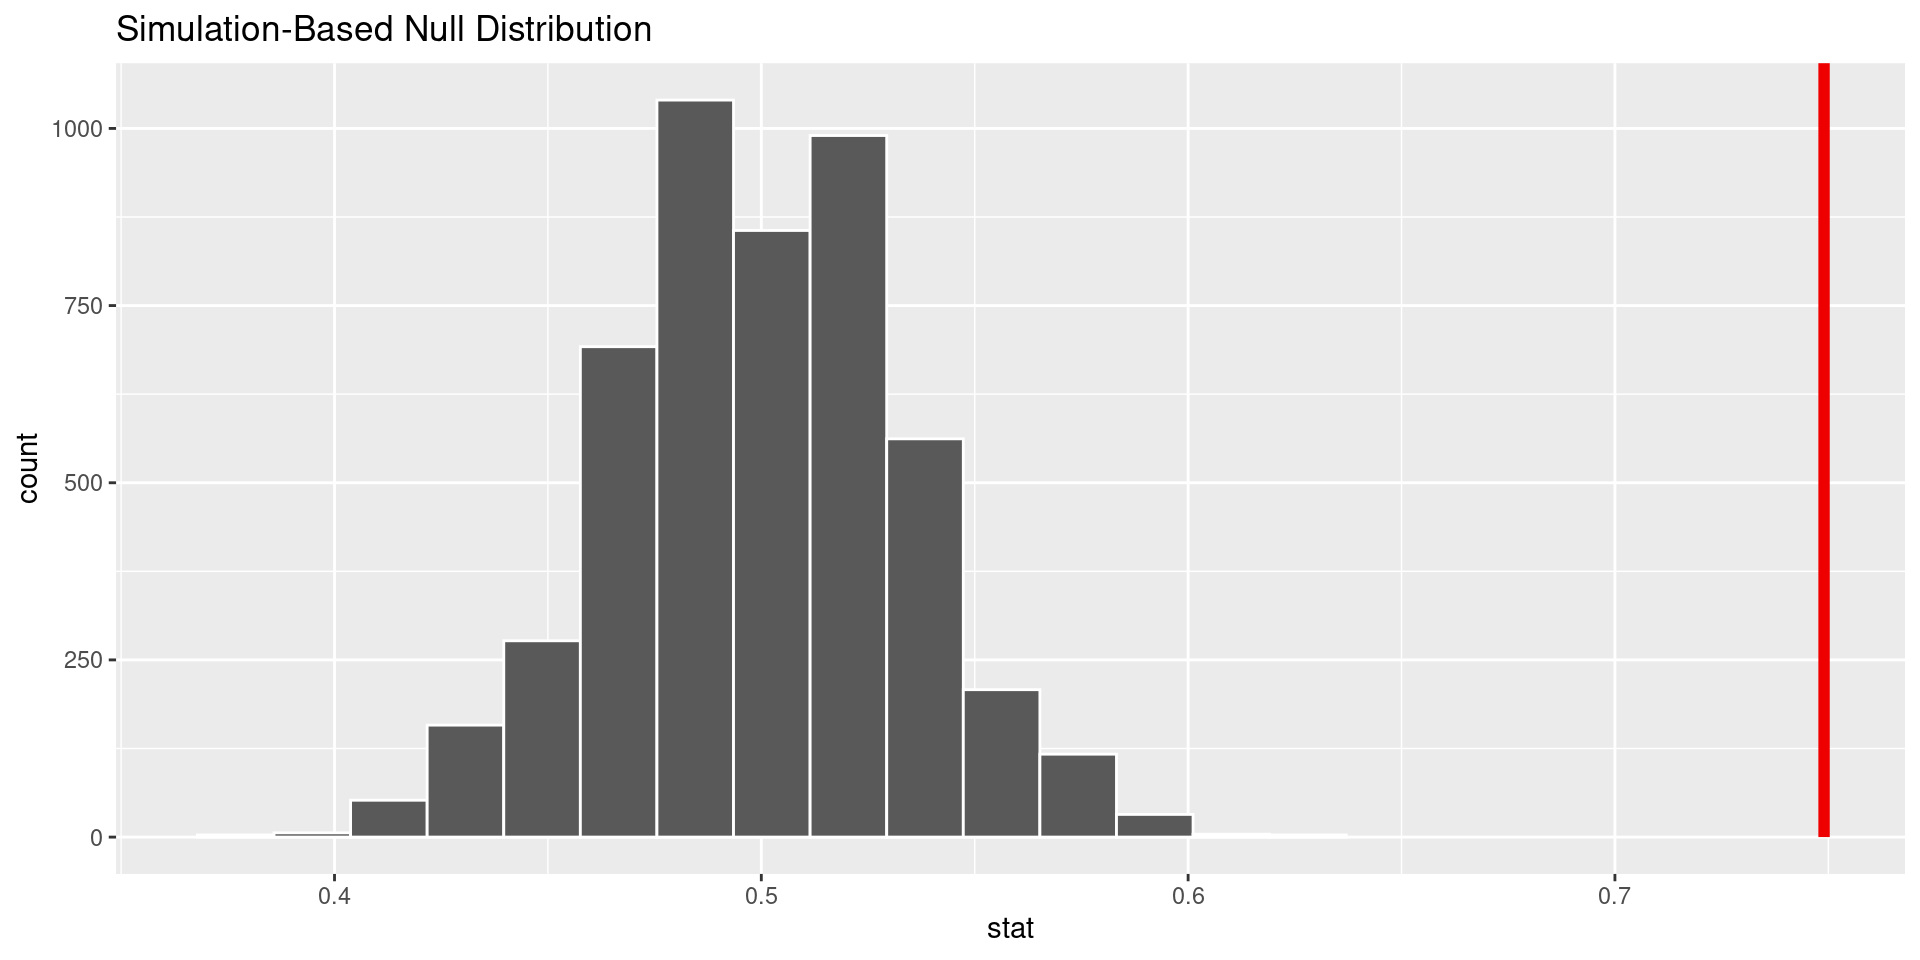
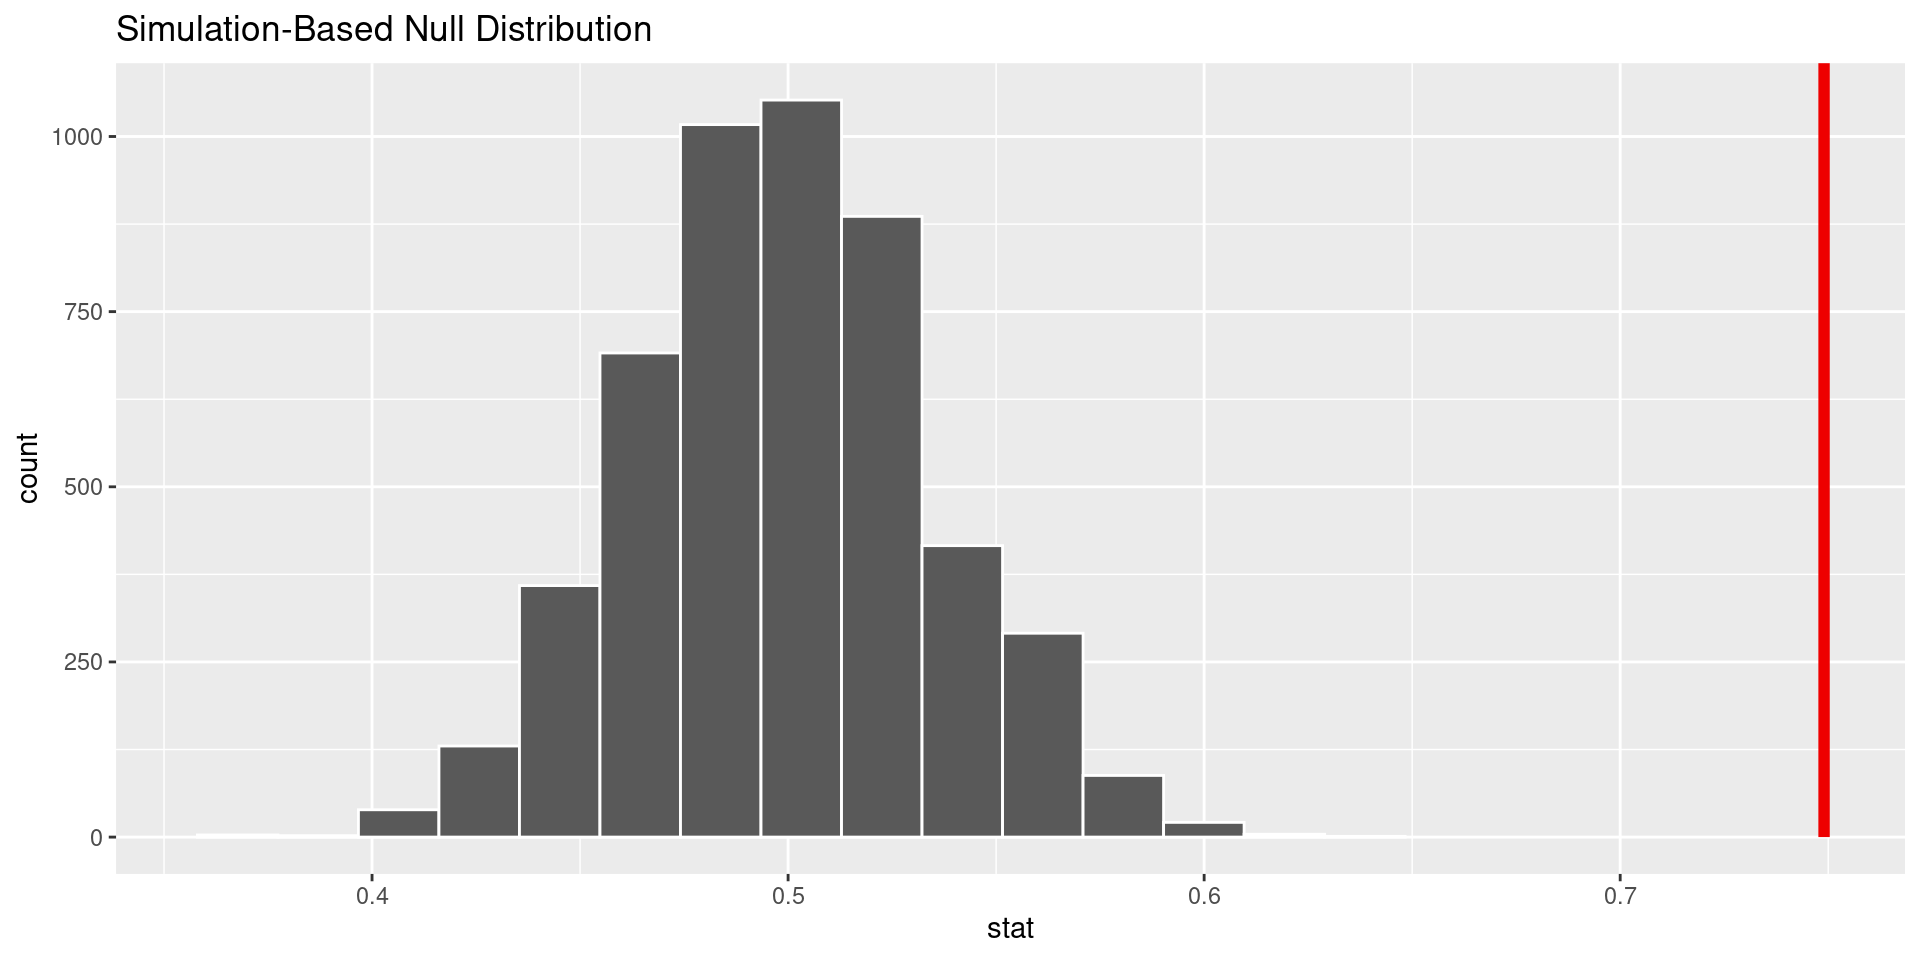
hypothesis testing edits

diff --git a/docs/lectures/12_hypothesis_test_prop.html b/docs/lectures/12_hypothesis_test_prop.html
@@ -402,10 +402,6 @@ Schwab
 </div>
 
 </section>
-<section class="slide level2">
-
-<p>I started falling asleep go back an rework this?</p>
-</section>
 <section id="example-ebola" class="slide level2">
 <h2>Example: Ebola</h2>
 <div>
@@ -465,7 +461,9 @@ Schwab
 </section>
 <section id="the-question." class="slide level2">
 <h2>The question.</h2>
-<p>&gt; If the sentiment from 2014 New Yorkers is unchanged today, what is the probability we would have gotten <span class="math inline">\(\hat{p} = 0.514\)</span> based on the 2014 sample?</p>
+<blockquote>
+<p>If the sentiment from 2014 New Yorkers is unchanged today, what is the probability we would have gotten <span class="math inline">\(\hat{p} = 0.514\)</span> based on the 2014 sample?</p>
+</blockquote>
 <div>
 <ul>
 <li class="fragment"><p>Is it likely or unlikely</p>
@@ -480,19 +478,19 @@ Schwab
 <h2>Notation</h2>
 <p>Hypothesis testing with Proportions</p>
 <p><span class="math display">\[
-H_o: p = 0.82 \\
-H_1: p \ne 0.82
+H_1: p = 0.82 \\
+H_A: p \ne 0.82
 \]</span></p>
 <p>Null and Alternative hypotheses.</p>
 <p>We assume the null hypothesis is true and build a theoretical sampling distribution from that.</p>
 </section>
 <section id="the-central-limit-theorem" class="slide level2">
 <h2>The Central Limit Theorem</h2>
-<p>This is how we build the sampling distribution.</p>
+<p>This is what allows us to build the sampling distribution.</p>
 <blockquote>
 <p>If we look at a proportion and the scenario satisfies certain conditions, then the distribution of sample proportions will appear to follow a bell-shaped curve called the <em>normal distribution</em>.</p>
 </blockquote>
-<p>This is the point of R Assignment 2. If we could sample repeatedly from a population, the shape of all those samples would be normal.</p>
+<p>This is the point of the recent R Assignment. If we could sample repeatedly from a population, the shape from the statistics in those samples would be normal.</p>
 </section>
 <section id="condition-on-h_0" class="slide level2">
 <h2>Condition on <span class="math inline">\(H_0\)</span></h2>
@@ -515,7 +513,7 @@ H_1: p \ne 0.82
 <h2>Conclusion</h2>
 <p>What is the probability of getting the <span class="math inline">\(\hat{p}\)</span> from our sample?</p>
 <div class="cell">
-<div class="sourceCode cell-code" id="cb3"><pre class="sourceCode numberSource r number-lines code-with-copy"><code class="sourceCode r"><span id="cb3-1"><a></a><span class="fu">pnorm</span>(<span class="at">q =</span> p<span class="sc">-</span>hat, <span class="at">mean =</span> p, <span class="at">sd =</span> SE, <span class="at">lower.tail =</span> )</span></code><button title="Copy to Clipboard" class="code-copy-button"><i class="bi"></i></button></pre></div>
+<div class="sourceCode cell-code" id="cb3"><pre class="sourceCode numberSource r number-lines code-with-copy"><code class="sourceCode r"><span id="cb3-1"><a></a><span class="fu">pnorm</span>(<span class="at">q =</span> p<span class="sc">-</span>hat, <span class="at">mean =</span> p, <span class="at">sd =</span> SE )</span></code><button title="Copy to Clipboard" class="code-copy-button"><i class="bi"></i></button></pre></div>
 </div>
 </section>
 <section id="practice-1.-exclusive-relationships" class="slide level2">
@@ -605,6 +603,16 @@ p \sim N(\mu = 0.5, SE = 0.035)
 </section>
 <section id="make-sample" class="slide level2">
 <h2>Make sample</h2>
+<div class="cell">
+<div class="sourceCode cell-code" id="cb8"><pre class="sourceCode numberSource r number-lines code-with-copy"><code class="sourceCode r"><span id="cb8-1"><a></a><span class="co"># This creates a vector of 152 "Trues" and 51 "Falses"</span></span>
+<span id="cb8-2"><a></a>more_than_1_relationship <span class="ot">&lt;-</span> <span class="fu">c</span>(</span>
+<span id="cb8-3"><a></a>  <span class="fu">rep</span>(<span class="cn">TRUE</span>, <span class="dv">152</span>),</span>
+<span id="cb8-4"><a></a>  <span class="fu">rep</span>(<span class="cn">FALSE</span>, <span class="dv">51</span>)</span>
+<span id="cb8-5"><a></a>) </span>
+<span id="cb8-6"><a></a></span>
+<span id="cb8-7"><a></a><span class="co">#This takes the vector and saves it as a data frame so we can us it. </span></span>
+<span id="cb8-8"><a></a>more_than_1_relationship <span class="ot">&lt;-</span> <span class="fu">as.data.frame</span>(more_than_1_relationship)</span></code><button title="Copy to Clipboard" class="code-copy-button"><i class="bi"></i></button></pre></div>
+</div>
 </section>
 <section id="hypothesis-notation-1" class="slide level2">
 <h2>Hypothesis notation</h2>
@@ -626,17 +634,49 @@ H_A: p &gt; 0.5
 </section>
 <section id="create-simulated-distribution" class="slide level2">
 <h2>Create simulated distribution</h2>
+<div class="cell">
+<div class="sourceCode cell-code" id="cb9"><pre class="sourceCode numberSource r number-lines code-with-copy"><code class="sourceCode r"><span id="cb9-1"><a></a><span class="fu">library</span>(infer)</span>
+<span id="cb9-2"><a></a></span>
+<span id="cb9-3"><a></a><span class="co"># Saving all the proportions we'll make</span></span>
+<span id="cb9-4"><a></a>null_distn_one_prop <span class="ot">&lt;-</span> more_than_1_relationship  <span class="sc">|&gt;</span></span>
+<span id="cb9-5"><a></a>  </span>
+<span id="cb9-6"><a></a>  <span class="co"># Here we tell specify what is a success</span></span>
+<span id="cb9-7"><a></a>  <span class="fu">specify</span>(<span class="at">response =</span> more_than_1_relationship, <span class="at">success =</span> <span class="st">"TRUE"</span>) <span class="sc">|&gt;</span></span>
+<span id="cb9-8"><a></a>  </span>
+<span id="cb9-9"><a></a>  <span class="co"># This is where we set the null hypothesis</span></span>
+<span id="cb9-10"><a></a>  <span class="fu">hypothesize</span>(<span class="at">null =</span> <span class="st">"point"</span>, <span class="at">p =</span> <span class="fl">0.5</span>) <span class="sc">|&gt;</span></span>
+<span id="cb9-11"><a></a>  </span>
+<span id="cb9-12"><a></a>  <span class="co"># Choosing 10000 replications</span></span>
+<span id="cb9-13"><a></a>  <span class="fu">generate</span>(<span class="at">reps =</span> <span class="dv">5000</span>, <span class="at">type =</span> <span class="st">"draw"</span>) <span class="sc">|&gt;</span></span>
+<span id="cb9-14"><a></a>  </span>
+<span id="cb9-15"><a></a>  <span class="co"># This is </span></span>
+<span id="cb9-16"><a></a>  <span class="fu">calculate</span>(<span class="at">stat =</span> <span class="st">"prop"</span>)</span></code><button title="Copy to Clipboard" class="code-copy-button"><i class="bi"></i></button></pre></div>
+</div>
 </section>
 <section id="examine-the-samples." class="slide level2">
 <h2>Examine the samples.</h2>
+<div class="cell">
+<div class="sourceCode cell-code" id="cb10"><pre class="sourceCode numberSource r number-lines code-with-copy"><code class="sourceCode r"><span id="cb10-1"><a></a><span class="co">#visualize is a graphing function, based on ggplot, for the infer package. </span></span>
+<span id="cb10-2"><a></a></span>
+<span id="cb10-3"><a></a><span class="fu">visualise</span>(<span class="at">data =</span> null_distn_one_prop)</span></code><button title="Copy to Clipboard" class="code-copy-button"><i class="bi"></i></button></pre></div>
 
+</div>
 <img data-src="12_hypothesis_test_prop_files/figure-revealjs/unnamed-chunk-8-1.png" width="960" class="r-stretch"></section>
 <section id="calculate-the-p-value-based-on-simulation" class="slide level2">
 <h2>Calculate the p-value based on simulation</h2>
 <p>Visualize the pvalue</p>
-
-<img data-src="12_hypothesis_test_prop_files/figure-revealjs/unnamed-chunk-9-1.png" width="960" class="r-stretch"><p>Calculate the p-value</p>
 <div class="cell">
+<div class="sourceCode cell-code" id="cb11"><pre class="sourceCode numberSource r number-lines code-with-copy"><code class="sourceCode r"><span id="cb11-1"><a></a><span class="fu">visualise</span>(<span class="at">data =</span> null_distn_one_prop) <span class="sc">+</span></span>
+<span id="cb11-2"><a></a>  <span class="fu">shade_p_value</span>(<span class="at">obs_stat =</span> <span class="fl">0.749</span>, <span class="at">direction =</span> <span class="st">"greater"</span>)</span></code><button title="Copy to Clipboard" class="code-copy-button"><i class="bi"></i></button></pre></div>
+
+</div>
+<img data-src="12_hypothesis_test_prop_files/figure-revealjs/unnamed-chunk-9-1.png" width="960" class="r-stretch"></section>
+<section id="calculate-the-p-value" class="slide level2">
+<h2>Calculate the p-value</h2>
+<div class="cell">
+<div class="sourceCode cell-code" id="cb12"><pre class="sourceCode numberSource r number-lines code-with-copy"><code class="sourceCode r"><span id="cb12-1"><a></a><span class="fu">get_p_value</span>(<span class="at">x =</span> null_distn_one_prop, </span>
+<span id="cb12-2"><a></a>            <span class="at">obs_stat =</span> <span class="fl">0.749</span>,</span>
+<span id="cb12-3"><a></a>            <span class="at">direction =</span> <span class="st">'greater'</span>)</span></code><button title="Copy to Clipboard" class="code-copy-button"><i class="bi"></i></button></pre></div>
 <div class="cell-output cell-output-stdout">
 <pre><code># A tibble: 1 × 1
   p_value

diff --git a/docs/lectures/13_parametric_boot.html b/docs/lectures/13_parametric_boot.html
@@ -424,7 +424,6 @@ Schwab
 <ol type="1">
 <li class="fragment"><p>The Parametric Bootstrap simulation assumes the null hypothesis is true then uses the data to construct a bootstrap distribution.</p></li>
 <li class="fragment"><p>Today this means for each value in our sample R will choose a success or failure with probability <code>p</code> for each value of <code>n</code>.</p></li>
-<li class="fragment"><p>We will do this with marbles</p></li>
 </ol>
 </div>
 </section>
@@ -454,7 +453,7 @@ H_a: p \ne 0.40
 <span id="cb3-5"><a></a><span class="co"># This saves the sample as a dataframe</span></span>
 <span id="cb3-6"><a></a>clinic_sample <span class="ot">&lt;-</span> <span class="fu">as.data.frame</span>(clinic_sample)</span>
 <span id="cb3-7"><a></a></span>
-<span id="cb3-8"><a></a><span class="co"># This changed the name of the variable to "has_disease"</span></span>
+<span id="cb3-8"><a></a><span class="co"># This changes the name of the variable to "has_disease"</span></span>
 <span id="cb3-9"><a></a><span class="fu">names</span>(clinic_sample) <span class="ot">&lt;-</span><span class="st">"has_disease"</span></span>
 <span id="cb3-10"><a></a></span>
 <span id="cb3-11"><a></a><span class="fu">head</span>(clinic_sample)</span></code><button title="Copy to Clipboard" class="code-copy-button"><i class="bi"></i></button></pre></div>
@@ -491,8 +490,8 @@ H_a: p \ne 0.40
 </div>
 </div>
 </section>
-<section id="create-bootstrap-distribution-w-infer" class="slide level2">
-<h2>Create bootstrap distribution w/ infer()</h2>
+<section id="create-one-sample-from-a-bootstrap-distribution" class="slide level2">
+<h2>Create one sample from a bootstrap distribution</h2>
 <div class="cell">
 <div class="sourceCode cell-code" id="cb7"><pre class="sourceCode numberSource r number-lines code-with-copy"><code class="sourceCode r"><span id="cb7-1"><a></a><span class="co"># setting a seed</span></span>
 <span id="cb7-2"><a></a><span class="fu">set.seed</span>(<span class="dv">2024</span>)</span>
@@ -541,12 +540,12 @@ Null Hypothesis: point
 <span id="cb9-13"><a></a>  <span class="co"># Choosing 10000 replications</span></span>
 <span id="cb9-14"><a></a>  <span class="fu">generate</span>(<span class="at">reps =</span> <span class="dv">10000</span>, <span class="at">type =</span> <span class="st">"draw"</span>) <span class="sc">|&gt;</span></span>
 <span id="cb9-15"><a></a>  </span>
-<span id="cb9-16"><a></a>  <span class="co"># This is </span></span>
+<span id="cb9-16"><a></a>  <span class="co"># This is calculating a proportion for each sample</span></span>
 <span id="cb9-17"><a></a>  <span class="fu">calculate</span>(<span class="at">stat =</span> <span class="st">"prop"</span>)</span></code><button title="Copy to Clipboard" class="code-copy-button"><i class="bi"></i></button></pre></div>
 </div>
 </section>
-<section id="visualize-the-bootstrap-distribution." class="slide level2">
-<h2><code>visualize()</code> the bootstrap distribution.</h2>
+<section id="visualize-the-bootstrap-distribution" class="slide level2">
+<h2><code>visualize()</code> the bootstrap distribution</h2>
 <div class="cell">
 <div class="sourceCode cell-code" id="cb10"><pre class="sourceCode numberSource r number-lines code-with-copy"><code class="sourceCode r"><span id="cb10-1"><a></a><span class="co"># cheater function to graph, works like ggplot(), but we don't need aes()</span></span>
 <span id="cb10-2"><a></a><span class="fu">visualize</span>(<span class="at">data =</span> null_distn_one_prop)</span></code><button title="Copy to Clipboard" class="code-copy-button"><i class="bi"></i></button></pre></div>
@@ -578,8 +577,8 @@ Null Hypothesis: point
 </div>
 </section>
 <section>
-<section id="conclusion." class="title-slide slide level1 center">
-<h1>Conclusion.</h1>
+<section id="conclusion" class="title-slide slide level1 center">
+<h1>Conclusion</h1>
 <p>Reject null.</p>
 <p>This means that the doctor doing the study should believe that locally people have this disease at a different rate than nationally.</p>
 </section>
@@ -599,7 +598,7 @@ Null Hypothesis: point
 <h2>Make sample</h2>
 <p>Nothing wrong with copying and editing code from above.</p>
 <div class="cell">
-<div class="sourceCode cell-code" id="cb14"><pre class="sourceCode numberSource r number-lines code-with-copy"><code class="sourceCode r"><span id="cb14-1"><a></a><span class="co"># This makes a 40% success sample. The rep() function repeats "disease" 13 times</span></span>
+<div class="sourceCode cell-code" id="cb14"><pre class="sourceCode numberSource r number-lines code-with-copy"><code class="sourceCode r"><span id="cb14-1"><a></a><span class="co"># This makes a 60% success sample. </span></span>
 <span id="cb14-2"><a></a></span>
 <span id="cb14-3"><a></a>major_sample <span class="ot">&lt;-</span>   <span class="fu">c</span>(<span class="fu">rep</span>(<span class="st">"yes"</span>, <span class="dv">15</span>), <span class="fu">rep</span>(<span class="st">"no"</span>, <span class="dv">10</span>))</span>
 <span id="cb14-4"><a></a></span>
@@ -714,7 +713,7 @@ X \sim N(p = 0.7, SE = 0.092)
 </div>
 </div>
 </section>
-<section id="conclusion" class="slide level2">
+<section id="conclusion-1" class="slide level2">
 <h2>Conclusion</h2>
 <p>We fail to reject the null hypothesis at the 5% significance level. 0.13 &gt; 0.05</p>
 
